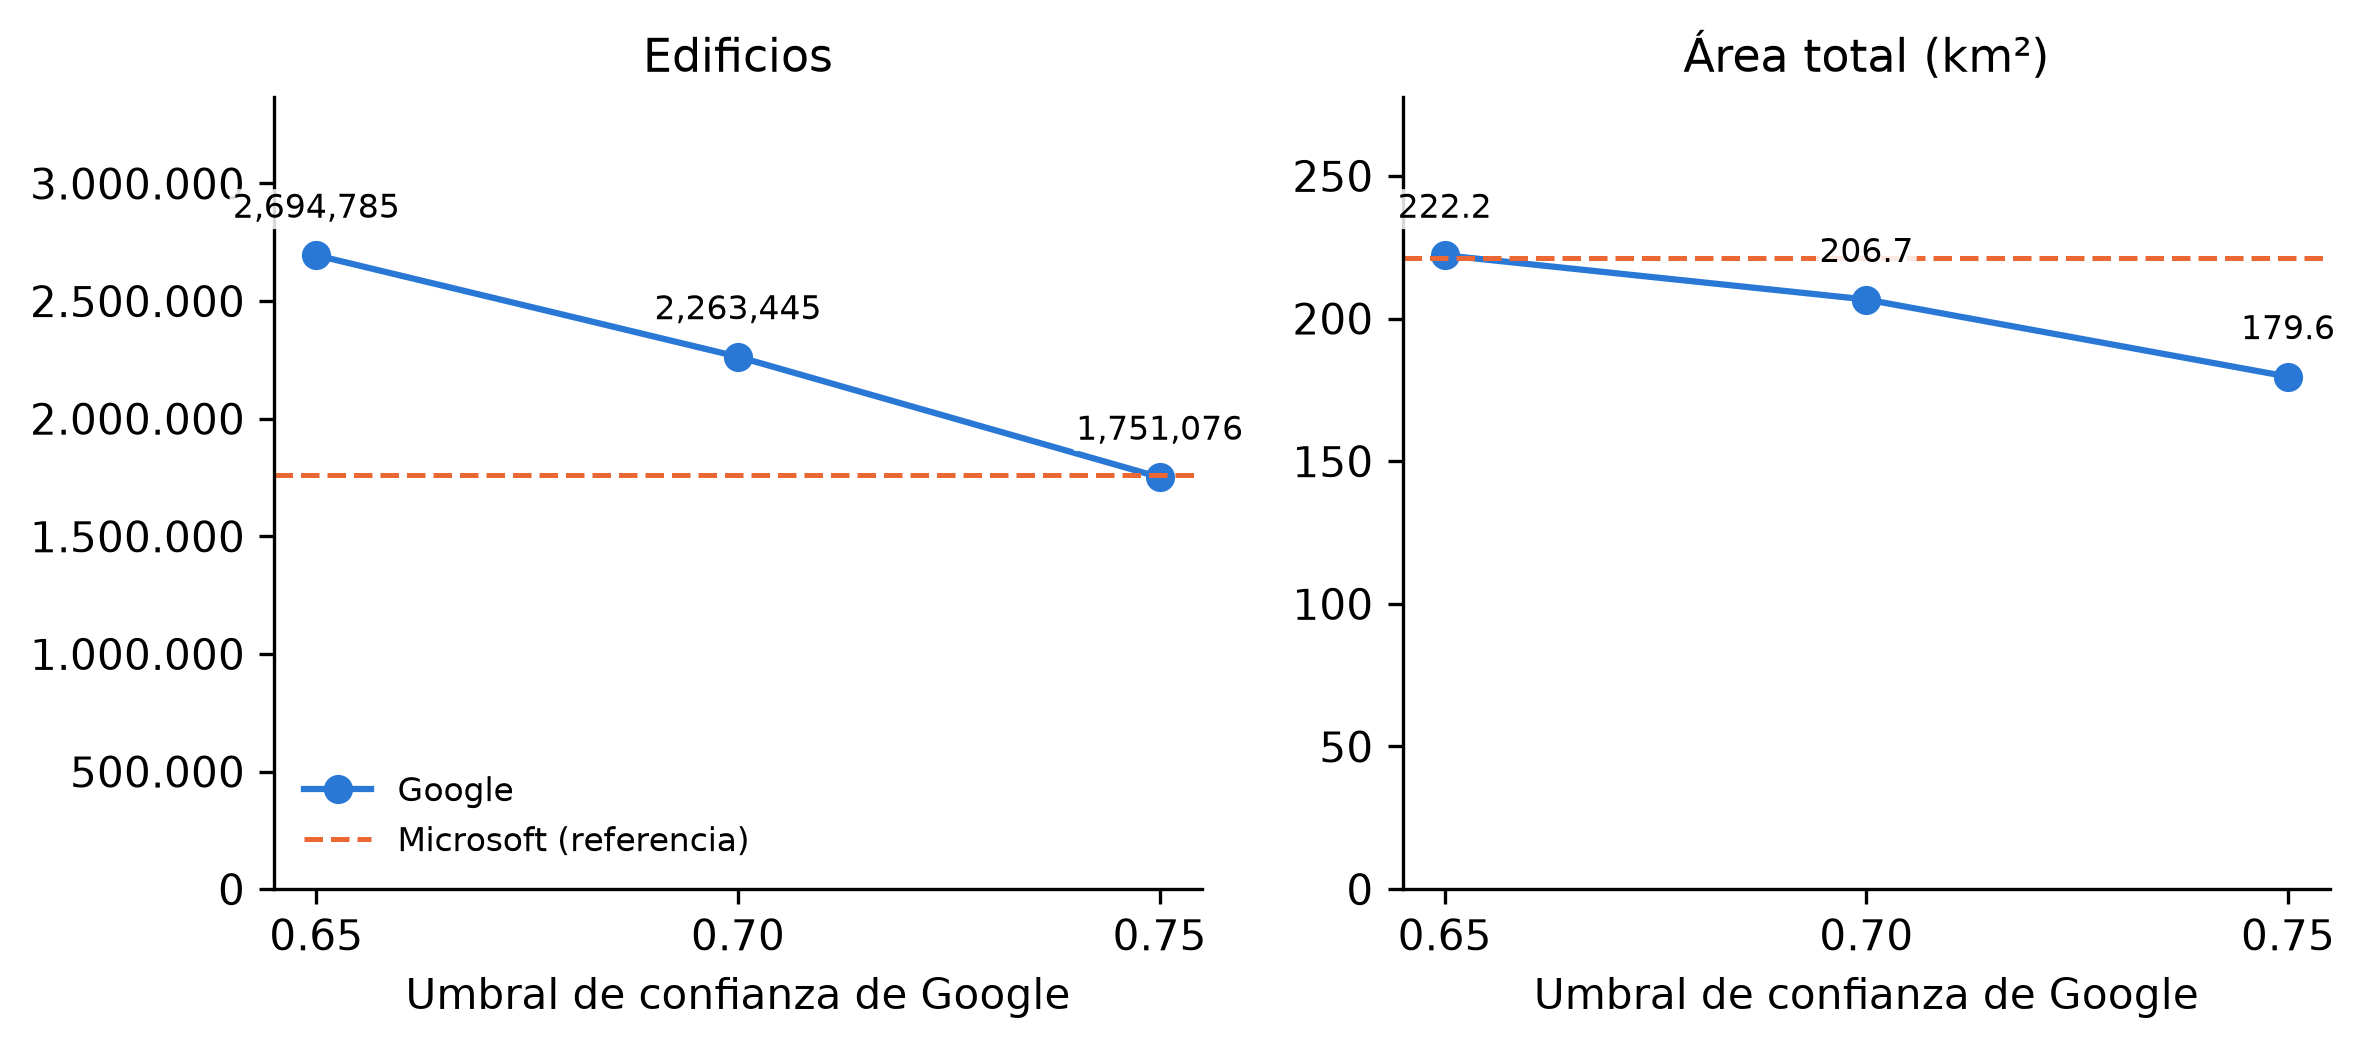
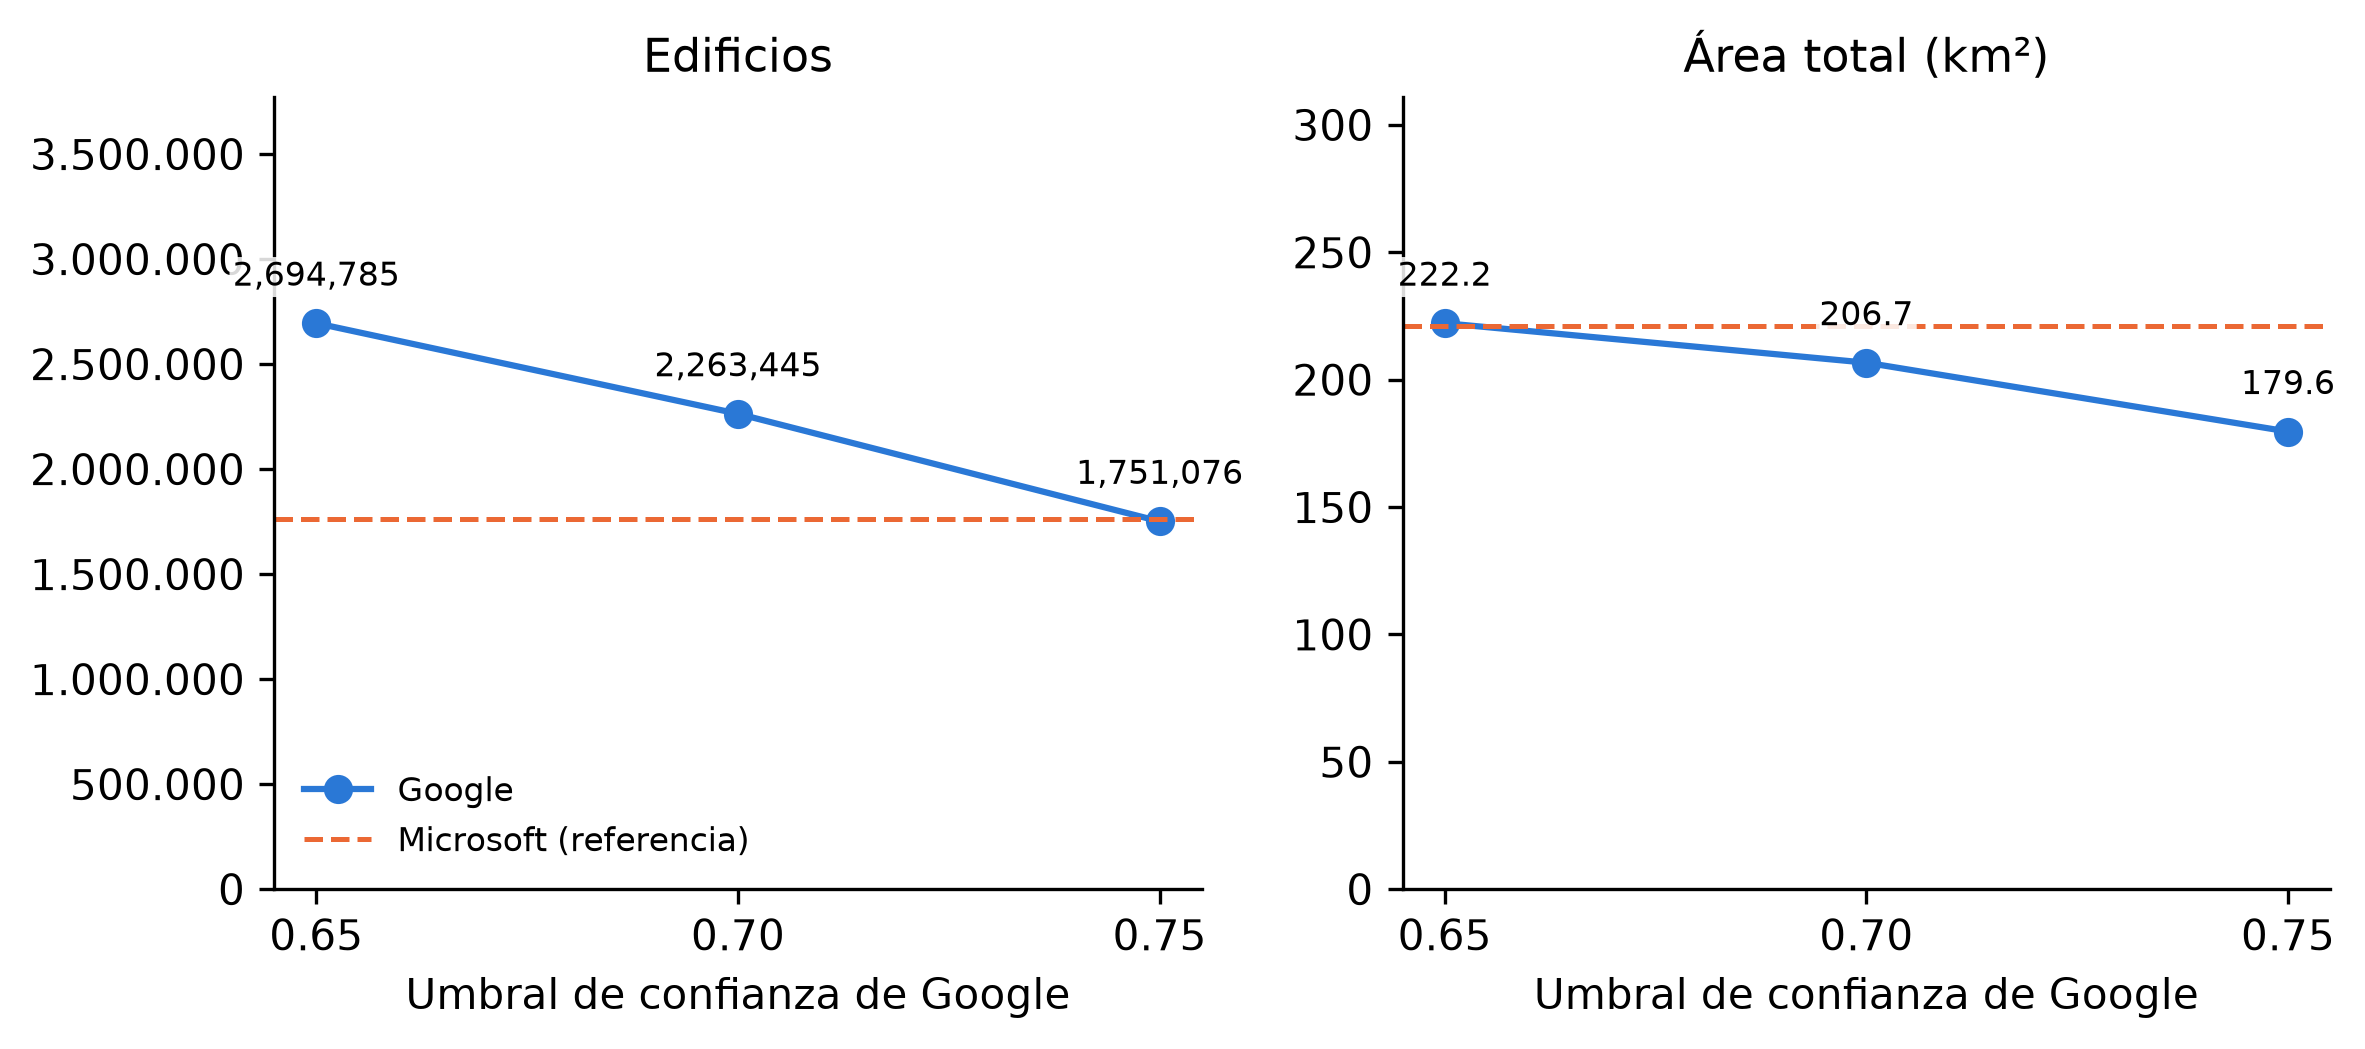
Semana 4: lectura de resultados y ajuste de la gráfica de sensibilidad
- Entrega 4/seccion_resultados.tex: lectura de resultados por municipio, sensibilidad
  al umbral y subregiones.
- graficas.py: más margen superior para que la etiqueta no choque con el eje.

diff --git a/Entrega 4/seccion_resultados.tex b/Entrega 4/seccion_resultados.tex
@@ -1,0 +1,64 @@
+\section{Lectura de los resultados}
+\label{sec:resultados-lectura}
+
+Con el umbral base de Google (0,65), el área de techos suma 222,17\,km$^2$ frente
+a 221,13\,km$^2$ de Microsoft: los totales coinciden. La diferencia está en cómo se
+reparten. Esta sección lee las cifras de \campo{resultados} desde tres ángulos: los
+municipios, la sensibilidad al umbral y las subregiones.
+
+\subsection{Municipio por municipio}
+
+La figura~\ref{fig:res-dispersion} compara el área total de cada municipio en las
+dos fuentes. Para 165 municipios con edificios de Google, la mayoría cae cerca de la
+recta 1:1, así que ambas fuentes dan un orden de magnitud parecido. Los municipios
+que se separan de la recta son pocos, y los que más se separan quedan por debajo de
+Microsoft. Los más alejados son Sipí, López, Condoto, Carmen del Darién y Ricaurte.
+En Sipí y López Google tiene casi nada: son municipios de cobertura baja, como se vio
+en el mapa de control (sección~\ref{sec:eda}). Los cinco municipios sin edificios de
+Google no aparecen en la figura.
+
+\begin{figure}[H]
+  \centering
+  \includegraphics[width=0.85\textwidth,height=0.42\textheight,keepaspectratio]{img/res_dispersion_municipio.png}
+  \caption{Área total por municipio PDET: Google con umbral 0,65 frente a Microsoft.
+  La recta punteada es 1:1.}
+  \label{fig:res-dispersion}
+\end{figure}
+
+\subsection{Sensibilidad al umbral}
+
+Subir el umbral de confianza de Google quita edificios y área, como muestra la
+figura~\ref{fig:res-sensibilidad} y la tabla~\ref{tab:sensibilidad}. Con 0,70 se
+pierden 16\,\% de los edificios y 7\,\% del área; con 0,75, 35\,\% y 19\,\%. El top 15
+de municipios por área se mantiene casi intacto: 15 de 15 con 0,70 y 14 de 15 con
+0,75. Sin embargo, con 0,75 el área de Google (179,6\,km$^2$) queda por debajo de la
+de Microsoft (221,1\,km$^2$), así que el umbral sí cambia la conclusión sobre qué
+fuente tiene más techo. Por eso 0,65 se usa como escenario base y los otros dos se
+reportan como sensibilidad.
+
+\begin{figure}[H]
+  \centering
+  \includegraphics[width=0.9\textwidth,height=0.3\textheight,keepaspectratio]{img/res_sensibilidad_umbral.png}
+  \caption{Edificios y área total de Google según el umbral de confianza, con
+  Microsoft como referencia.}
+  \label{fig:res-sensibilidad}
+\end{figure}
+
+\subsection{Subregiones}
+
+La tabla~\ref{tab:subregion} muestra que la diferencia entre fuentes no es uniforme.
+La columna $D$ es $(A_G - A_M)/(A_G + A_M)$: positiva cuando Google tiene más área.
+En la Sierra Nevada - Perijá, Urabá Antioqueño y Montes de María, $D$ está entre
+$+$0,07 y $+$0,09. En cambio, en el Chocó, el Sur del Tolima y el Pacífico y Frontera
+Nariñense, $D$ está entre $-$0,21 y $-$0,33, es decir, Microsoft tiene más área. La
+diferencia total es cero porque los excesos y los faltantes se compensan. Esto
+confirma lo que muestra la figura: las fuentes coinciden en la escala regional, pero
+no en las zonas de baja densidad del Pacífico y el sur, donde la cobertura de Google
+es más débil.
+
+\subsection{Lectura para el informe}
+
+El total regional es robusto frente al umbral base: entre 0,65 y 0,70 el área baja 7\,\%,
+y entre 0,65 y 0,75, 19\,\%. A nivel municipal la cifra sí depende de la fuente y del
+umbral, sobre todo en el Pacífico y el Chocó, donde conviene reportar un rango y no
+una sola cifra.

diff --git a/src/analisis/graficas.py b/src/analisis/graficas.py
@@ -100,7 +100,7 @@ def figura_sensibilidad() -> object:
         eje.set_title(titulo)
         if fmt:
             eje.yaxis.set_major_formatter(fmt)
-        eje.set_ylim(0, max(g[col].max(), m[col]) * 1.25)
+        eje.set_ylim(0, max(g[col].max(), m[col]) * 1.4)
     ejes[0].legend(frameon=False, loc="lower left", fontsize=8)
     fig.tight_layout()
     return guardar(fig, "res_sensibilidad_umbral")
